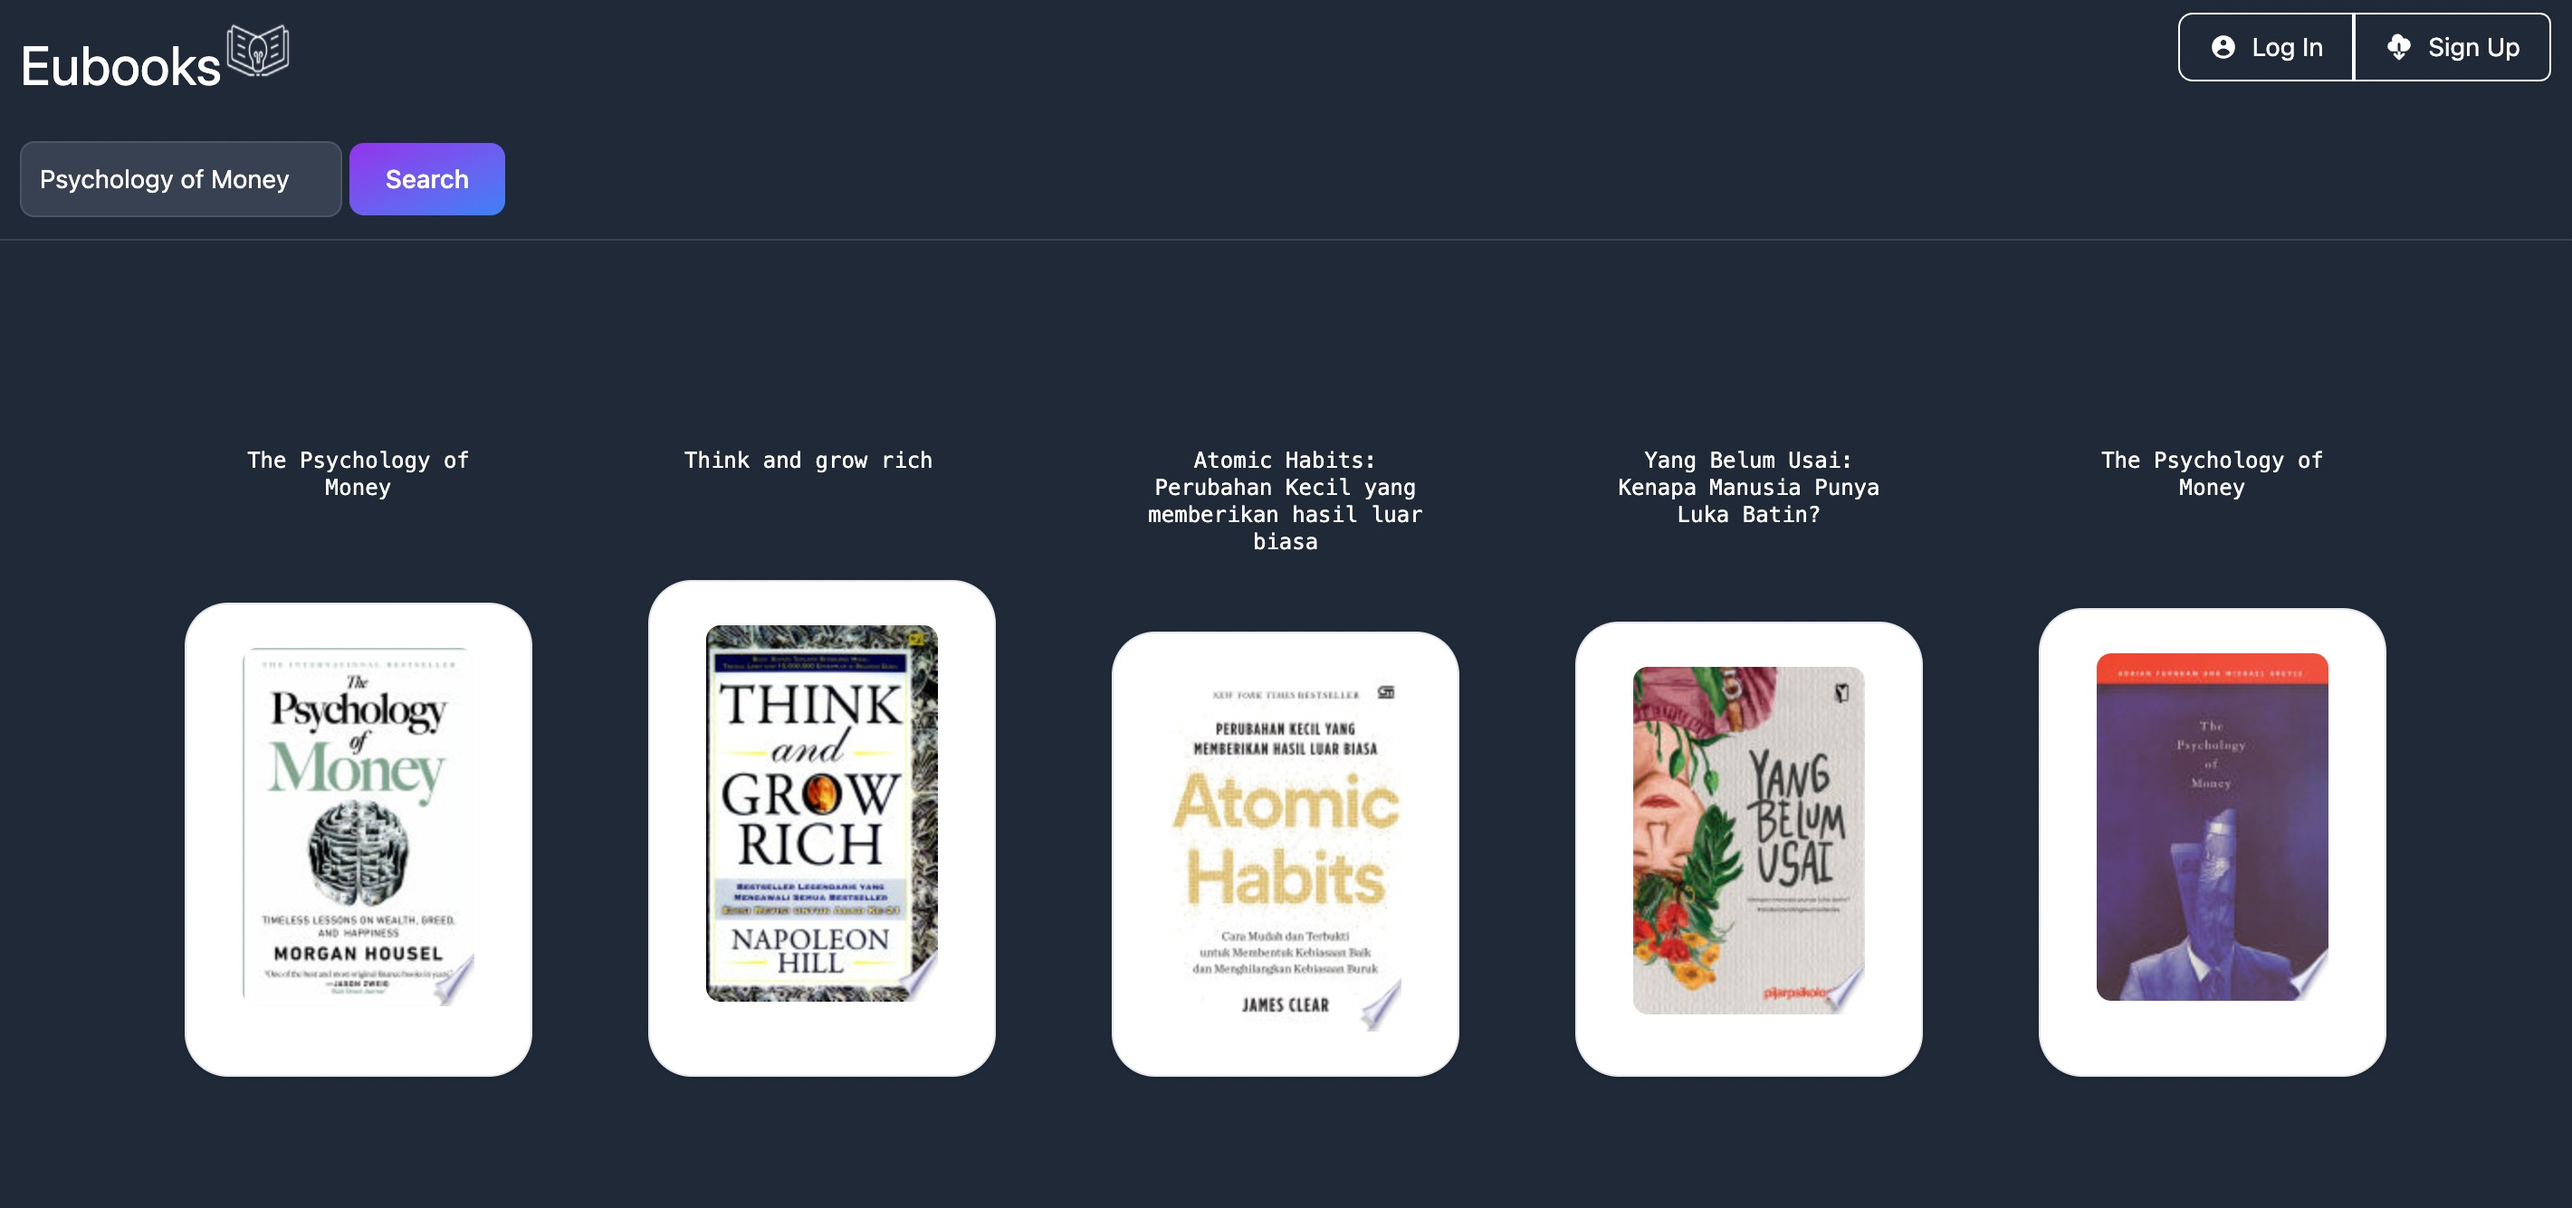
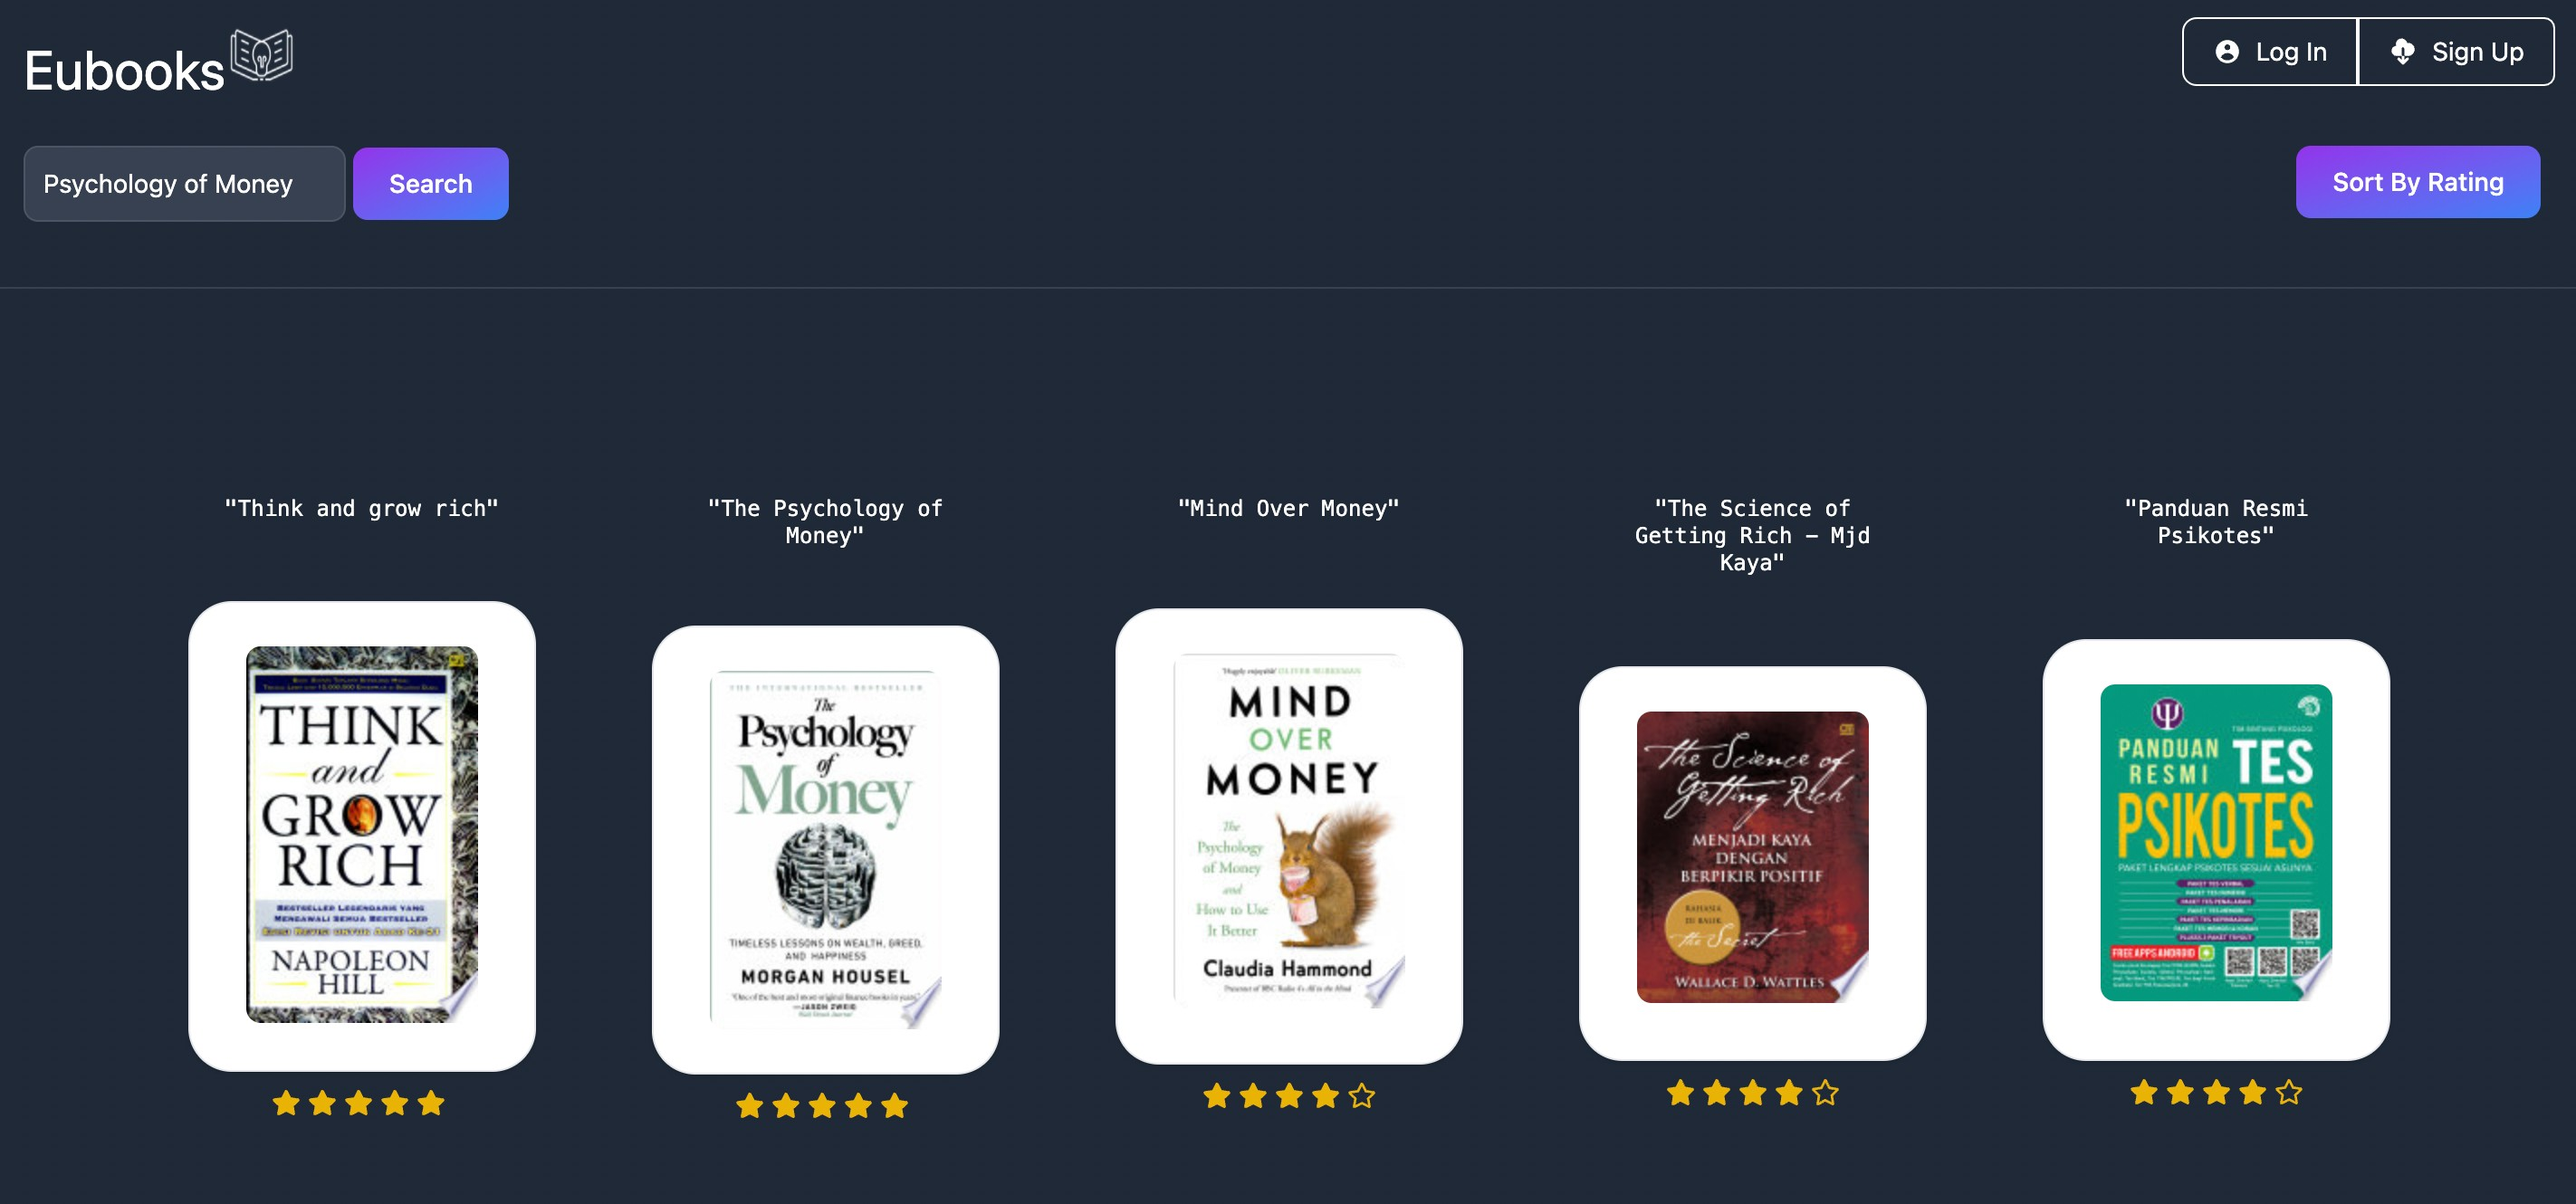
🛠 Styling Error Page

diff --git a/pages/books/BookDetails.js b/pages/books/BookDetails.js
@@ -44,6 +44,24 @@ function PrintDynamic(info) {
         divLapis2.append(image)
         divLapis1.append(divLapis2)
 
+        // Star Rating
+        const ratingStar = document.createElement('div')
+        ratingStar.id = "detailList"
+        ratingStar.className = "text-xs text-slate-400 font-medium rounded-lg px-5 py-2.5 text-center hover:ease-in duration-300 hover:text-sm"
+        
+        let starCount = 0
+        try {
+            starCount = parseInt(info.volumeInfo["averageRating"], 10)
+        } catch (e) {
+            starCount = 0
+        }
+
+        if(starCount > 0) {
+            ratingStar.innerHTML = generateStar(starCount)
+        } else {
+            ratingStar.innerText = "- Unrated -"
+        }
+
         // Authors
         const author = document.createElement('p')
         author.id = "detailList"
@@ -77,7 +95,11 @@ function PrintDynamic(info) {
             tampilan.append(subheading)
         }
 
+        // gambar
         tampilan.append(divLapis1)
+
+        tampilan.append(ratingStar)
+
         if (author.innerText != "undefined") {
             tampilan.append(author)
         }
@@ -132,5 +154,46 @@ function deleteAllSearchResult() {
         GetData('https://www.googleapis.com/books/v1/volumes?q='+isiInput.value + '&&maxResults=25')
     })
 }
+
+
+function generateStar(activeStar) {
+    let starHTML = `<ul class="flex justify-center">`
+    for (let i = 0; i < activeStar; i++) {
+        starHTML += generateFullStar()
+    }
+    
+    if (activeStar < 5) {
+        for (let i = 0; i < 5 - activeStar; i++) {
+            starHTML +=generateEmptyStar()
+        }
+    }
+    
+    starHTML += `</ul>`
+
+    starHTML.replace(/\r?\n|\r/g, " ")
+    console.log(starHTML)
+    return (starHTML)
+}
+
+function generateFullStar() {
+    return (
+        `<li>
+            <svg aria-hidden="true" focusable="false" data-prefix="fas" data-icon="star" class="w-4 text-yellow-500 mr-1" role="img" xmlns="http://www.w3.org/2000/svg" viewBox="0 0 576 512">
+                <path fill="currentColor" d="M259.3 17.8L194 150.2 47.9 171.5c-26.2 3.8-36.7 36.1-17.7 54.6l105.7 103-25 145.5c-4.5 26.3 23.2 46 46.4 33.7L288 439.6l130.7 68.7c23.2 12.2 50.9-7.4 46.4-33.7l-25-145.5 105.7-103c19-18.5 8.5-50.8-17.7-54.6L382 150.2 316.7 17.8c-11.7-23.6-45.6-23.9-57.4 0z"></path>
+            </svg>
+        </li>`
+    )
+}
+
+function generateEmptyStar() {
+    return (
+        `<li>
+            <svg aria-hidden="true" focusable="false" data-prefix="far" data-icon="star" class="w-4 text-yellow-500" role="img" xmlns="http://www.w3.org/2000/svg" viewBox="0 0 576 512">
+                <path fill="currentColor" d="M528.1 171.5L382 150.2 316.7 17.8c-11.7-23.6-45.6-23.9-57.4 0L194 150.2 47.9 171.5c-26.2 3.8-36.7 36.1-17.7 54.6l105.7 103-25 145.5c-4.5 26.3 23.2 46 46.4 33.7L288 439.6l130.7 68.7c23.2 12.2 50.9-7.4 46.4-33.7l-25-145.5 105.7-103c19-18.5 8.5-50.8-17.7-54.6zM388.6 312.3l23.7 138.4L288 385.4l-124.3 65.3 23.7-138.4-100.6-98 139-20.2 62.2-126 62.2 126 139 20.2-100.6 98z"></path>
+            </svg>
+        </li>`
+    )
+}
+
 
 export default BookDetails;

diff --git a/pages/404.js b/pages/404.js
@@ -1,6 +1,8 @@
 import Link from 'next/link'
 import { useEffect } from 'react';
 import { useRouter } from 'next/router';
+import Head from 'next/head';
+import Image from 'next/image';
 
 const NotFound = () => {
     const router = useRouter();
@@ -25,10 +27,36 @@ const NotFound = () => {
     }, [])
 
     return (
-        <div className="not-found">
-            <h1>Oooops...</h1>
-            <h2>That page cannot be found</h2>
-            <p>Go back to the <Link href="./books"><a>Bookspage</a></Link></p>
+        <div class="py-3 px-5 text-gray-700 bg-gray-50 border-gray-200 dark:bg-gray-800 dark:border-gray-700">
+        <Head>
+            <title>Eubooks | About</title>
+            <meta name="keywords" content="book"/>
+        </Head>
+
+        <br/>
+        <br/>
+        <br/>
+        <br/>
+        <br/>
+       
+
+        <p class="text-center text-4xl text-white font-bold">Oops...</p>
+        <p class="text-center text-2xl text-slate-400">This page was not found, <br/> 
+        but you can stay and have a drink.
+        </p>
+
+        <br/>
+
+        <div class="flex justify-center">
+          <Image src="/beer.jpg" class="block opacity-30 hover:ease-in duration-300 hover:opacity-50" width={600} height={300}/>
+        </div>
+
+        <br/>
+        <br/>
+        <br/>
+        <br/>
+        <br/>
+
         </div>
     );
 }
